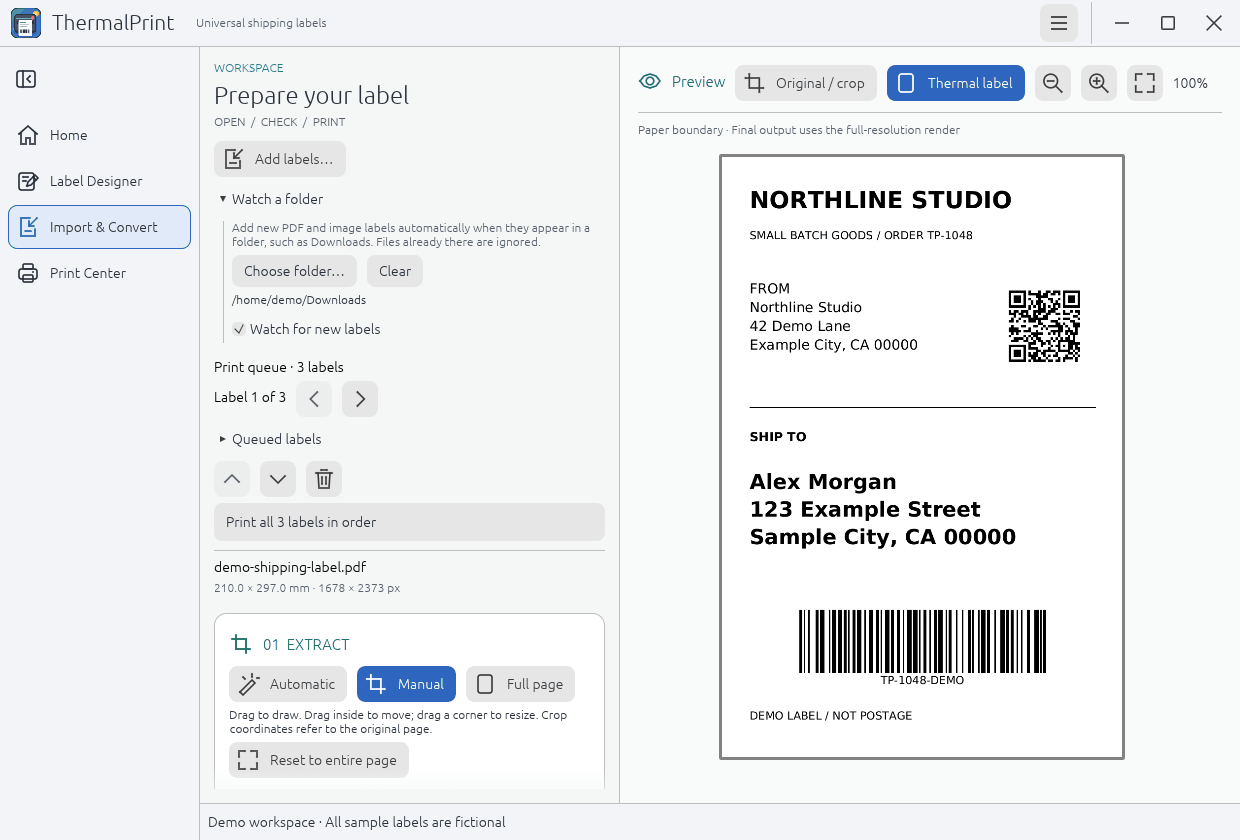
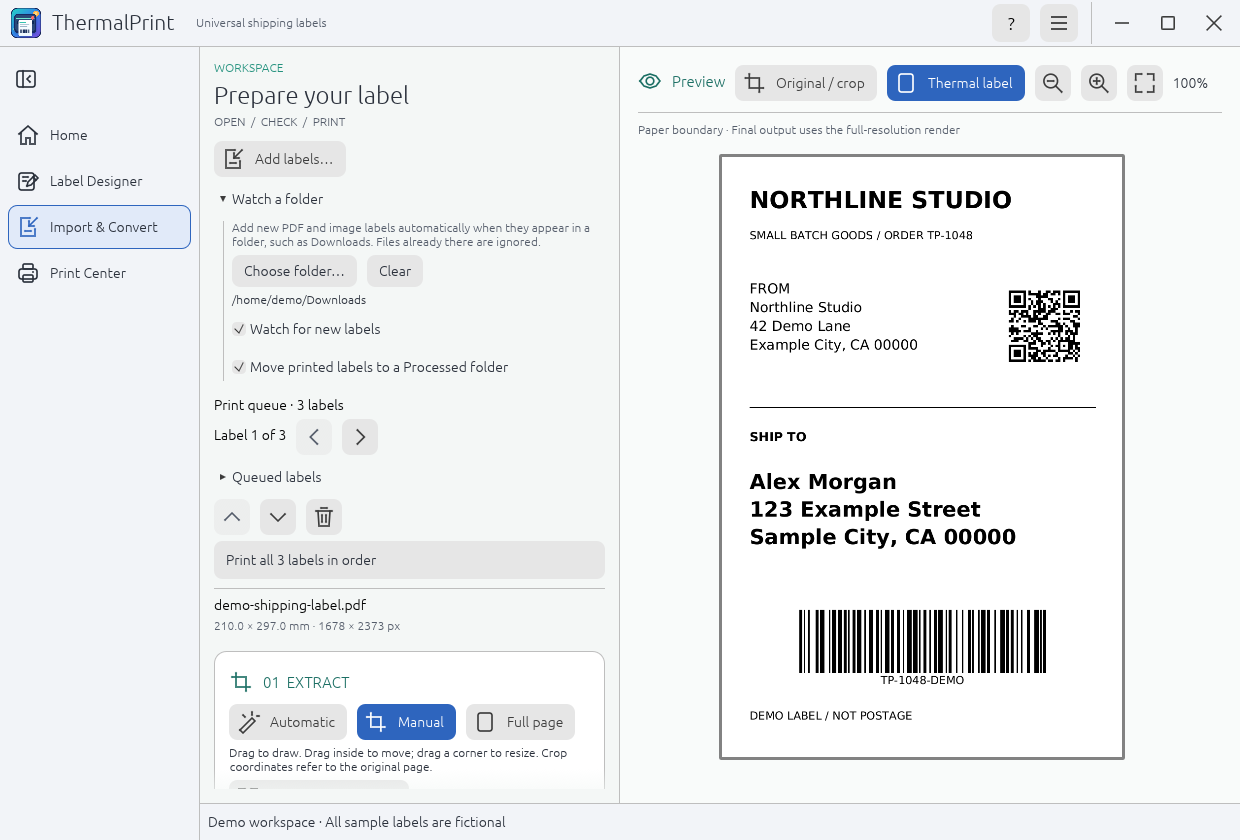
Manual: update the watch-folder screenshot to show the Processed folder option

Changed region(s): [[0.1839, 0.5571, 0.4903, 0.9286], [0.1532, 0.4333, 0.3984, 0.5262], [0.0, 0.0, 0.0306, 0.0619]]

diff --git a/docs/manual/pages/08-automation.html b/docs/manual/pages/08-automation.html
@@ -7,7 +7,7 @@ summary: Let new downloads join the queue automatically, and reopen anything you
 
 <h2 id="watching-a-folder">Watching a folder</h2>
 <p>Marketplaces and carriers save labels as PDFs in your Downloads folder. With a watch folder, ThermalPrint adds each new one to the print queue as soon as it appears.</p>
-{{figure:import-watch|Import and Convert with the Watch a folder section open, showing the chosen folder and the Watch for new labels checkbox|The Watch a folder section in Import &amp; Convert.}}
+{{figure:import-watch|Import and Convert with the Watch a folder section open, showing the chosen folder, the Watch for new labels checkbox, and the Move printed labels to a Processed folder checkbox|The Watch a folder section in Import &amp; Convert.}}
 <h3>Turn it on</h3>
 <ol>
   <li>Open <strong>Import &amp; Convert</strong> and expand <strong>Watch a folder</strong>.</li>

diff --git a/src/ui/screenshots.rs b/src/ui/screenshots.rs
@@ -232,6 +232,7 @@ impl Capture {
                 "import-watch" => {
                     app.settings.watch_folder = Some(PathBuf::from("/home/demo/Downloads"));
                     app.settings.watch_enabled = true;
+                    app.settings.move_printed = true;
                 }
                 "print-center-full" => app.history = demo_history(),
                 "batch" => {
